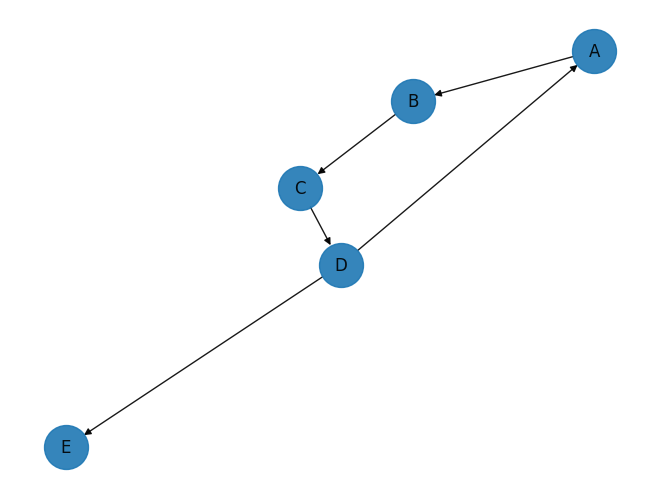
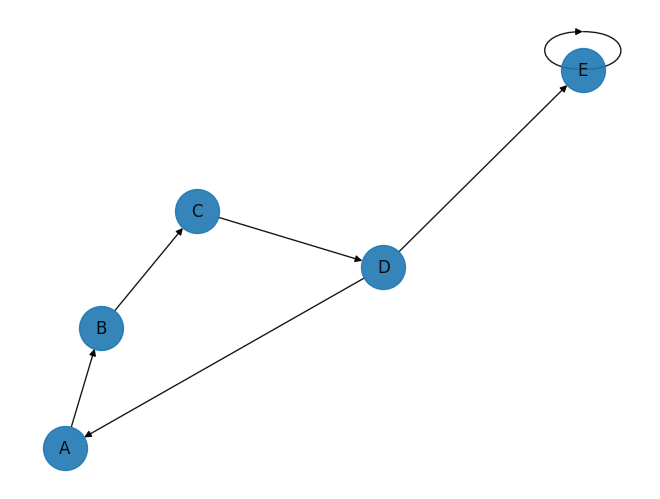
Test for self-loop edge.

diff --git a/01_data_structures/07_graphs/01_undirected/graph.py b/01_data_structures/07_graphs/01_undirected/graph.py
@@ -35,12 +35,11 @@ class UndirectedGraph:
         if self.adj_list.get(vtx_2, None) is None:
             raise ValueError(f"Not found: '{vtx_2}'")
 
-        # Add edge from `vtx_1` to `vtx_2`.
-        if vtx_2 not in self.adj_list[vtx_1]:
+        if vtx_2 not in self.adj_list[vtx_1] and vtx_1 not in self.adj_list[vtx_2]:
+            # Add edge from `vtx_1` to `vtx_2`.
             self.adj_list[vtx_1].append(vtx_2)
 
-        # Add edge from `vtx_2` to `vtx_1`.
-        if vtx_1 not in self.adj_list[vtx_2]:
+            # Add edge from `vtx_2` to `vtx_1`.
             self.adj_list[vtx_2].append(vtx_1)
 
     # Delete
@@ -72,10 +71,9 @@ class UndirectedGraph:
         if self.adj_list.get(vtx_2, None) is None:
             raise ValueError(f"Not found: '{vtx_2}'")
 
-        # Remove edge from `vtx_1` to `vtx_2`.
-        if vtx_2 in self.adj_list[vtx_1]:
+        if vtx_2 in self.adj_list[vtx_1] and vtx_1 in self.adj_list[vtx_2]:
+            # Remove edge from `vtx_1` to `vtx_2`.
             self.adj_list[vtx_1].remove(vtx_2)
 
-        # Remove edge from `vtx_2` to `vtx_1`.
-        if vtx_1 in self.adj_list[vtx_2]:
+            # Remove edge from `vtx_2` to `vtx_1`.
             self.adj_list[vtx_2].remove(vtx_1)

diff --git a/01_data_structures/07_graphs/01_undirected/main.py b/01_data_structures/07_graphs/01_undirected/main.py
@@ -38,9 +38,10 @@ def test_update(grp: UndirectedGraph):
         [Vertex("C"), Vertex("D")],
         [Vertex("D"), Vertex("A")],
         [Vertex("D"), Vertex("E")],
+        [Vertex("E"), Vertex("E")],  # Self loop.
         [Vertex("D"), Vertex("Y")],  # RHS vertex does not exist.
         [Vertex("Y"), Vertex("D")],  # LHS vertex does not exist.
-        [Vertex("X"), Vertex("Y")],  # Both vertex does not exist.
+        [Vertex("X"), Vertex("Y")],  # Both vertices does not exist.
     ]
     print("\nAdd valid edges to graph:")
 

diff --git a/01_data_structures/07_graphs/02_directed/main.py b/01_data_structures/07_graphs/02_directed/main.py
@@ -38,6 +38,7 @@ def test_update(grp: DirectedGraph):
         [Vertex("C"), Vertex("D")],
         [Vertex("D"), Vertex("A")],
         [Vertex("D"), Vertex("E")],
+        [Vertex("E"), Vertex("E")],  # Self loop.
         [Vertex("D"), Vertex("Y")],  # RHS vertex does not exist.
         [Vertex("Y"), Vertex("D")],  # LHS vertex does not exist.
         [Vertex("X"), Vertex("Y")],  # Both vertex does not exist.

diff --git a/01_data_structures/07_graphs/01_undirected/README.md b/01_data_structures/07_graphs/01_undirected/README.md
@@ -48,6 +48,7 @@ Adding edges between Vertex(value='B') and Vertex(value='C').
 Adding edges between Vertex(value='C') and Vertex(value='D').
 Adding edges between Vertex(value='D') and Vertex(value='A').
 Adding edges between Vertex(value='D') and Vertex(value='E').
+Adding edges between Vertex(value='E') and Vertex(value='E').
 Adding edges between Vertex(value='D') and Vertex(value='Y').
 ERROR: Not found: 'Vertex(value='Y')'
 Adding edges between Vertex(value='Y') and Vertex(value='D').
@@ -60,7 +61,7 @@ Vertex(value='A') => [Vertex(value='B'), Vertex(value='D')]
 Vertex(value='B') => [Vertex(value='A'), Vertex(value='C')]
 Vertex(value='C') => [Vertex(value='B'), Vertex(value='D')]
 Vertex(value='D') => [Vertex(value='C'), Vertex(value='A'), Vertex(value='E')]
-Vertex(value='E') => [Vertex(value='D')]
+Vertex(value='E') => [Vertex(value='D'), Vertex(value='E'), Vertex(value='E')]
 
 Plot graph after adding edges.
 ```
@@ -79,7 +80,7 @@ Adjacency list:
 Vertex(value='A') => [Vertex(value='B')]
 Vertex(value='B') => [Vertex(value='A'), Vertex(value='C')]
 Vertex(value='C') => [Vertex(value='B')]
-Vertex(value='E') => []
+Vertex(value='E') => [Vertex(value='E'), Vertex(value='E')]
 
 Plot graph after deleting vertices.
 ```
@@ -101,7 +102,7 @@ Adjacency list:
 Vertex(value='A') => [Vertex(value='B')]
 Vertex(value='B') => [Vertex(value='A')]
 Vertex(value='C') => []
-Vertex(value='E') => []
+Vertex(value='E') => [Vertex(value='E'), Vertex(value='E')]
 
 Plot graph after deleting edges.
 ```

diff --git a/01_data_structures/07_graphs/02_directed/README.md b/01_data_structures/07_graphs/02_directed/README.md
@@ -42,12 +42,13 @@ Plot graph with only vertices.
 #### 1.2.2 Update
 
 ```log
-Add 8 valid edges to graph:
+Add 9 valid edges to graph:
 Adding edge from Vertex(value='A') to Vertex(value='B').
 Adding edge from Vertex(value='B') to Vertex(value='C').
 Adding edge from Vertex(value='C') to Vertex(value='D').
 Adding edge from Vertex(value='D') to Vertex(value='A').
 Adding edge from Vertex(value='D') to Vertex(value='E').
+Adding edge from Vertex(value='E') to Vertex(value='E').
 Adding edge from Vertex(value='D') to Vertex(value='Y').
 ERROR: Not found: 'Vertex(value='Y')'
 Adding edge from Vertex(value='Y') to Vertex(value='D').
@@ -60,7 +61,7 @@ Vertex(value='A') => [Vertex(value='B')]
 Vertex(value='B') => [Vertex(value='C')]
 Vertex(value='C') => [Vertex(value='D')]
 Vertex(value='D') => [Vertex(value='A'), Vertex(value='E')]
-Vertex(value='E') => []
+Vertex(value='E') => [Vertex(value='E')]
 
 Plot graph after adding edges.
 ```
@@ -79,7 +80,7 @@ Adjacency list:
 Vertex(value='A') => [Vertex(value='B')]
 Vertex(value='B') => [Vertex(value='C')]
 Vertex(value='C') => []
-Vertex(value='E') => []
+Vertex(value='E') => [Vertex(value='E')]
 
 Plot graph after deleting vertices.
 ```
@@ -101,7 +102,7 @@ Adjacency list:
 Vertex(value='A') => [Vertex(value='B')]
 Vertex(value='B') => []
 Vertex(value='C') => []
-Vertex(value='E') => []
+Vertex(value='E') => [Vertex(value='E')]
 
 Plot graph after deleting edges.
 ```
